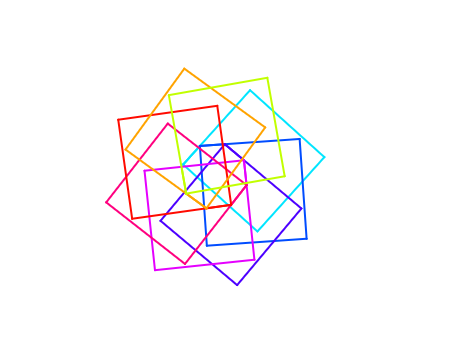
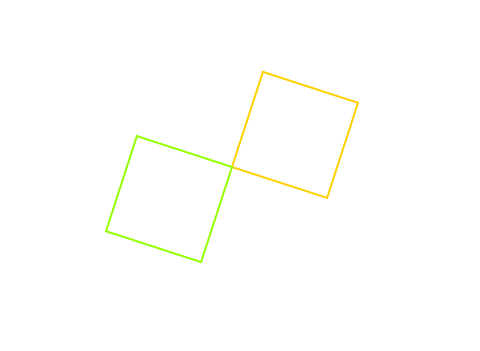
5 klasa

diff --git a/scratch/5a/README.md b/scratch/5a/README.md
@@ -2,12 +2,19 @@
 
 ## zadanie 1
 
-Narysuj literę ```G```, zmień jej kolor i przesuń ją do lewej górnej ćwiartki ekranu.
+Narysuj literę ```P```, zmień jej kolor i przesuń ją do lewej górnej ćwiartki ekranu.
 
-<img src="./litera_g.png" />
+<img src="./litera_p.png" />
 
 ## zadanie 2
+
+Narysuj kwadrat o boku ```50 jednostek``` w czwartej ćwiartce układu współrzędnych (prawy dolny róg).
+
+<img src="./kwadrat_czwarta_cwiartka.png" />
+
+
+## zadanie 3
  
-Narysuj kwadraty o boku ```100 jednostek``` w różnych kolorach, obrócone względem siebie o ```45 stopni```.
+Narysuj dwa kwadraty o boku ```100 jednostek``` w różnych kolorach, obrócone względem siebie o ```180 stopni```.
 
 <img src="./kwadraty_rotate.png" />
